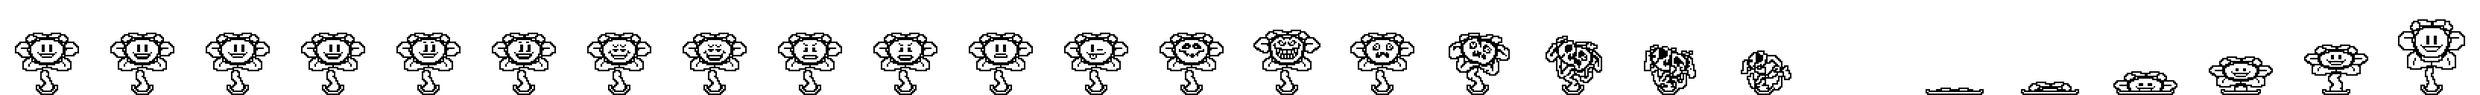
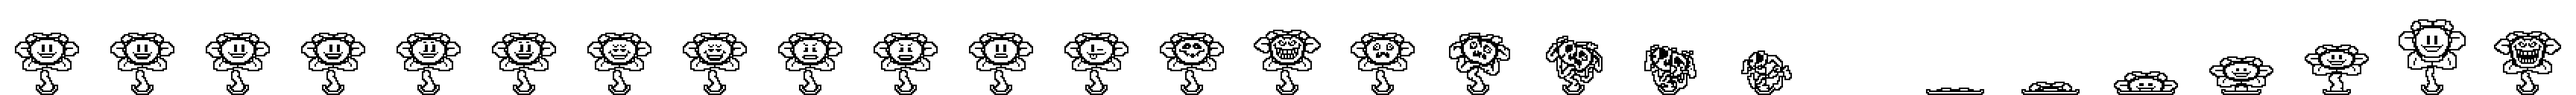
Added pacifist ending

Changed region(s): [[0.0, 0.3125, 0.7188, 1.0], [0.75, 0.1875, 1.0, 1.0]]

diff --git a/src/scenes/Battle.js b/src/scenes/Battle.js
@@ -196,6 +196,15 @@ export default class Battle extends BattleFramework
             ]
         });
         this.anims.create({
+            key: 'evil_laugh',
+            frames: [
+                { key: 'flowey', frame: 13},
+                { key: 'flowey', frame: 26},
+            ],
+            frameRate: 12,
+            repeat: -1
+        });
+        this.anims.create({
             key: 'hurt1',
             frames: [
                 { key: 'flowey', frame: 14}
@@ -335,6 +344,13 @@ export default class Battle extends BattleFramework
                         if(this.monsterStage == 17)
                         {
                             this.cameras.main.fade(0)
+                            this.controlType = 'noControl'
+                            this.time.addEvent({
+                                delay: 1000,
+                                callback: ()=>{
+                                    this.scene.start('End')
+                                }
+                            })
                         }
 
                         //shake
@@ -418,18 +434,46 @@ export default class Battle extends BattleFramework
     doMercy()
     {
         console.log("Spare")
+        this.player.setVisible(false)
+        this.controlType = 'noControl'
         this.clearMenu()
         this.mercyButton.setFrame(6);
         if(this.monsterStage == 12)
         {
-            this.monsterStage == 18
+            this.monsterStage = 17
             this.flowey.play('appear')
+            this.time.addEvent({
+                delay: 500,
+                callback: ()=>{
+                    this.monsterSpeak(this.monsterStage)
+                }
+            })
         }
-        if(this.monsterStage > 17)
+        if(this.monsterStage > 16)
         {
             this.monsterStage++
         }
-        this.textSequence(null, null)
+        if(this.monsterStage != 24 && this.monsterStage != 18){
+            this.monsterSpeak(this.monsterStage)
+        }else if(this.monsterStage == 24){
+            this.player.setVisible(false)
+            this.controlType = 'noControl'
+            this.flowey.play('evil_laugh')
+            this.snd_floweylaugh.play()
+            this.time.addEvent({
+                delay: 4000,
+                callback: ()=>{
+                    this.flowey.play('disappear')
+                    this.cameras.main.fadeOut(4000)
+                    this.time.addEvent({
+                        delay: 6000,
+                        callback: ()=>{
+                            this.scene.start('End')
+                        }
+                    })
+                }
+            })
+        }
     }
 
     monsterAttack()
@@ -486,6 +530,7 @@ export default class Battle extends BattleFramework
 
             break;
             case 11:
+                this.flowey.play('disappear')
 
             break;
             case 12:
@@ -727,8 +772,17 @@ export default class Battle extends BattleFramework
             this.time.addEvent({
                 delay: length,
                 callback: ()=>{
+                    this.player.setVisible(false)
                     this.controlType = 'menu1'
                     this.generateMenu()
+                    this.controlType = 'noControl'
+                    this.time.addEvent({
+                        delay: 300,
+                        callback: ()=>{
+                            this.controlType = 'menu1'
+                            this.player.setVisible(true)
+                        }
+                    })
                     if(this.monsterStage < 12)
                     {
                         this.monsterStage++; //Increment monster stages < 12
@@ -835,6 +889,24 @@ export default class Battle extends BattleFramework
                 case 17:
                     returnText = '...'
                     break;
+                case 18:
+                    returnText = 'Flowey is beyond exhausted'
+                    break;
+                case 19:
+                    returnText = 'Flowey is beyond exhausted'
+                    break;
+                case 20:
+                    returnText = 'Flowey is beyond exhausted'
+                    break;
+                case 21:
+                    returnText = `Flowey doesn't seem to want to\nfight anymore`
+                    break;
+                case 22:
+                    returnText = `Flowey doesn't seem to want to\nfight anymore`
+                    break;
+                case 23:
+                    returnText = 'Flowey is sparing you'
+                    break;
             }
         }
         if(categoryParam == 'ACT')
@@ -904,7 +976,7 @@ export default class Battle extends BattleFramework
                 break;
                 case 4:
                     returnText[0] = `lookaway | Imagine if someone\ngave you your\nlife back...`
-                    returnText[1] = `frown | Only to take it all\naway at the last second.`
+                    returnText[1] = `frown | Only to take it all\naway at the last\nsecond.`
                     returnText[2] = `smug | Sound familiar?`
                 break;
                 case 5:
@@ -916,6 +988,7 @@ export default class Battle extends BattleFramework
                     returnText[1] = `hurt2 | The... pain...`
                 break;
                 case 14: returnText[0] = `hurt3 | P-please...`
+                break;
                 case 18: //beginning of mercy ending
                     returnText[0] = `sheepish | Huff... puff...`
                     returnText[1] = `smile | You're still not\nfighting back, huh?`
@@ -929,10 +1002,10 @@ export default class Battle extends BattleFramework
                     break;
                 case 21:
                     returnText[0] = `lookaway | Maybe I should...`
-                    returnText[1] = `sheepish | Just kill you sometime\nlater`
+                    returnText[1] = `sheepish | Just kill you\nsometime later`
                     break;
                 case 22:
-                    returnText[0] = `lookaway | When I'm a little less...`
+                    returnText[0] = `lookaway | When I'm a little\nless...`
                     returnText[1] = `wink | Exhausted.`
                     break;
                 case 23:

diff --git a/src/scenes/End.js b/src/scenes/End.js
@@ -1,0 +1,47 @@
+import Phaser from '../lib/phaser.js'
+
+export default class End extends Phaser.Scene
+{
+    constructor()
+    {
+        super('End')
+    }
+
+    preload()
+    {
+
+    }
+
+    init()
+    {
+
+    }
+
+    create()
+    {
+        this.text1 = this.add.text(384, 512, 'FLOWEY FANBATTLE', { fontFamily: 'Determination', fontSize: '48px', align: 'center' })
+        this.text2 = this.add.text(384, 512, 'by André Beaulieu', { fontFamily: 'Determination', fontSize: '32px', align: 'center' })
+        this.time.addEvent({
+            delay: 3000,
+            callback: ()=>{
+                this.text1.destroy()
+                this.text2.destroy()
+                this.text1 = this.add.text(384, 512, 'UNDERTALE', { fontFamily: 'Determination', fontSize: '48px', align: 'center' })
+                this.text2 = this.add.text(384, 512, 'by Toby Fox', { fontFamily: 'Determination', fontSize: '32px', align: 'center' })
+            }
+        })
+        this.time.addEvent({
+            delay: 6000,
+            callback: ()=>{
+                this.text1.destroy()
+                this.text2.destroy()
+                this.text1 = this.add.text(384, 512, 'THE END', { fontFamily: 'Determination', fontSize: '48px', align: 'center' })
+            }
+        })
+    }
+
+    update()
+    {
+
+    }
+}

diff --git a/src/main.js b/src/main.js
@@ -2,12 +2,13 @@ import Phaser from './lib/phaser.js'
 
 import Battle from './scenes/Battle.js'
 import Dead from './scenes/Dead.js'
+import End from './scenes/End.js'
 
 export default new Phaser.Game({
     type: Phaser.CANVAS,
     width: 1440,
     height: 900,
-    scene: [Battle, Dead],
+    scene: [Battle, Dead, End],
     physics: {
         default: 'arcade',
         arcade: {

diff --git a/README.md b/README.md
@@ -5,7 +5,7 @@ However, he does what he does because he is bored. Flowey is aware his life is a
 In this timeline, the player has played the game so many times, giving the characters happy endings, sad endings, awful endings, that Flowey is even bored of that. He no longer wishes
 for you to play anymore. He just wants you to put the game to rest. But you're not going to do that, are you? You have to see what happens if you continue.
 
-In this game, you can FIGHT or SPARE to win. The path of violence is a decision, and a necessity. You may ACT to learn information and use ITEMs to heal.
+In this game, you can FIGHT or SPARE to win. The path of violence is a decision, not a necessity. You may ACT to learn information and use ITEMs to heal.
 
 credits
 https://soundcloud.com/joandr861/floral-defiance-flowey-battle-theme
